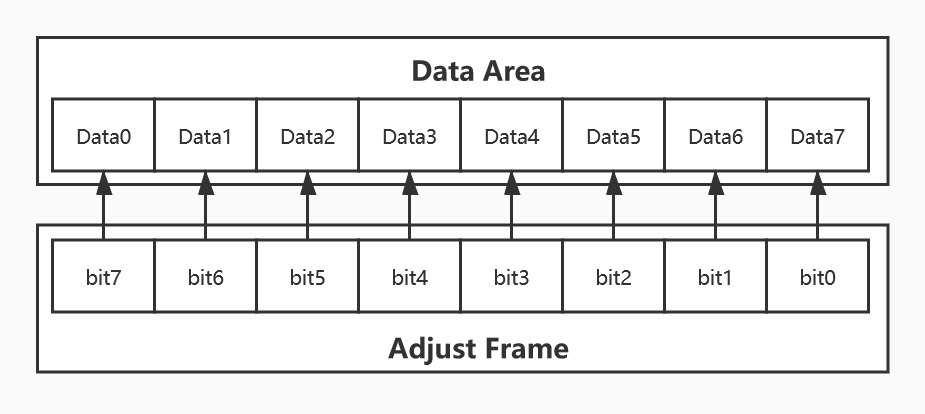
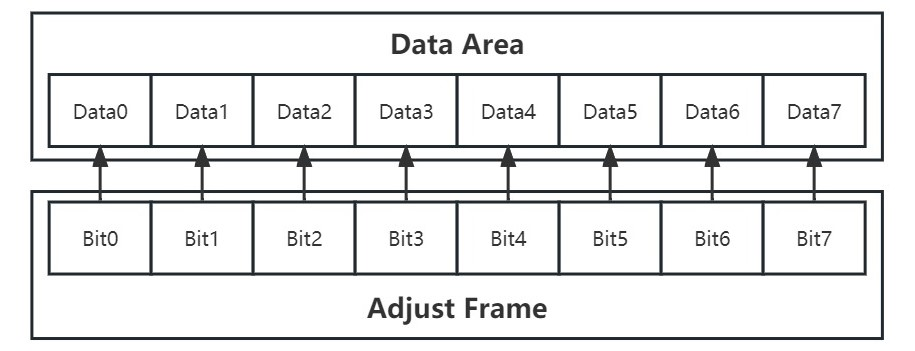
Update the medium-capacity transmission protocol and small-capacity transmission protocol to 2.0 to fix bugs.

Changed region(s): [[0.0306, 0.0285, 0.9792, 0.9687], [0.3978, 0.6553, 0.459, 0.7123]]

diff --git a/mdtp/src/decrypt.c b/mdtp/src/decrypt.c
@@ -2,8 +2,8 @@
     \file     decrypt.c
     \brief    Medium capacity transport protocol unpacking function Source File.
     \author   Lao·Zhu
-    \version  V1.0.3
-    \date     3. December 2021
+    \version  V2.0.0
+    \date     15. October 2023
 ******************************************************************************/
 
 #include "decrypt.h"
@@ -16,11 +16,11 @@
           1 receive status trying to receive a complete packet.   \n
           2 end status processing the received data
 */
-volatile static unsigned char mdtp_receive_status = 0;
+static unsigned char mdtp_receive_status = 0;
 /*!
     \brief  medium capacity transport protocol receive character counter
 */
-volatile static unsigned char mdtp_receive_number_counter = 0;
+static unsigned char mdtp_receive_number_counter = 0;
 /*!
     \brief  medium capacity transport protocol receive buffer array
 */
@@ -29,14 +29,14 @@ static unsigned char mdtp_receive_data_buffer[10] = {0};
 /*!
     \brief        medium capacity data transmission protocol unpacking handler
     \param[in]    data: data received from UART peripheral
-    \retval none
+    \retval       none
 */
 void mdtp_receive_handler(unsigned char data) {
     /* data receiving finite state machine */
     switch (mdtp_receive_status) {
         case 0:
             /* judge whether the packet header is received */
-            if (data == 0xA5) {
+            if (data == 0xAA) {
                 /* enter the receive state */
                 mdtp_receive_status = 1;
 
@@ -48,7 +48,7 @@ void mdtp_receive_handler(unsigned char data) {
 
         case 1:
             /* judge whether the end of the packet is mistakenly recognized as the header */
-            if (data == 0xA5 && mdtp_receive_number_counter != 0) {
+            if (data == 0xAA && mdtp_receive_number_counter != 0) {
                 /* an unexpected data had been received */
                 /* reset to receive start of package state */
                 mdtp_receive_status = 0;
@@ -56,7 +56,7 @@ void mdtp_receive_handler(unsigned char data) {
                 /* clear receive array counter and buffer */
                 mdtp_receive_number_counter = 0;
                 memset(mdtp_receive_data_buffer, 0x00, sizeof(mdtp_receive_data_buffer));
-            } else if (data != 0xA5) {
+            } else if (data != 0xAA) {
                 /* judge whether the reception is completed or the error data is received */
                 if (mdtp_receive_number_counter != 10) {
                     /* receive the data into the array in turn */
@@ -69,23 +69,26 @@ void mdtp_receive_handler(unsigned char data) {
             break;
 
         case 2:
-            if (data == 0xA5) {
+            if (data == 0xAA) {
+                /* reset to receive start of package state */
                 mdtp_receive_status = 0;
 
                 /* verify whether the pid byte is correct*/
                 if ((mdtp_receive_data_buffer[0] >> 4) == (~mdtp_receive_data_buffer[0] & 0x0f)) {
-                    unsigned char tmp_rcv_buffer[8] = {0}, counter = 0;
-                    /* judge whether the adjust frame is 0xA5 */
-                    if (mdtp_receive_data_buffer[1] == 0x81 && mdtp_receive_data_buffer[9] == 0x81) {
-                        mdtp_receive_data_buffer[9] = 0xA5;
-                        mdtp_receive_data_buffer[1] = 0x00;
-                    } else {
-                        /* traverse the data byte to be adjusted */
-                        for (; counter < 8; ++counter)
-                            if (((mdtp_receive_data_buffer[9] >> counter) & 0x01) == 0x01)
-                                tmp_rcv_buffer[counter] = 0xA5;
-                            else
-                                tmp_rcv_buffer[counter] = mdtp_receive_data_buffer[counter + 1];
+                    static unsigned char tmp_rcv_buffer[8] = {0}, adj_counter = 0;
+                    /* judge whether the adjust frame is 0xAA */
+                    if (mdtp_receive_data_buffer[8] == 0xA5 && mdtp_receive_data_buffer[9] == 0x80)
+                        /* set adjust frame to with 0xAA */
+                        mdtp_receive_data_buffer[9] = 0xAA;
+                    /* traverse the data byte to be adjusted */
+                    for (adj_counter = 0; adj_counter < 8; ++adj_counter) {
+                        /* judge whether the adjustment bit is 1 */
+                        if (((mdtp_receive_data_buffer[9] >> adj_counter) & 0x01) == 0x01)
+                            /* fill the data byte with 0xAA */
+                            tmp_rcv_buffer[adj_counter] = 0xAA;
+                        else
+                            /* copy data directly to the receiving array */
+                            tmp_rcv_buffer[adj_counter] = mdtp_receive_data_buffer[adj_counter + 1];
                     }
                     /* call user callback function to complete the next step */
                     mdtp_callback_handler(mdtp_receive_data_buffer[0] >> 4, tmp_rcv_buffer);

diff --git a/sdtp/src/decrypt.c b/sdtp/src/decrypt.c
@@ -1,38 +1,41 @@
-//
-// Created by Lao·Zhu on 2021/9/4.
-//
+/*****************************************************************************
+    \file     decrypt.c
+    \brief    Small capacity transport protocol unpacking function Source File.
+    \author   Lao·Zhu
+    \version  V2.0.0
+    \date     15. October 2023
+******************************************************************************/
 
 #include "decrypt.h"
 #include "ioctrl.h"
 
-unsigned char receive_buffer[3];
+static unsigned char receive_buffer[3];
 
 /*!
     \brief        small capacity data transmission protocol unpacking handler
     \param[in]    data: data received from general receive function
-    \param[out]   none
     \retval       none
 */
 void sdtp_receive_handler(unsigned char data) {
     /* data receiving finite state machine */
-    switch (((data & 0xc0) >> 6)) {
+    switch (((data & 0xC0) >> 6)) {
         case 0x00:
             /* separate the first two bits of the byte to obtain valid data */
-            receive_buffer[0] = ((data & 0x3f) << 2);
+            receive_buffer[0] = ((data & 0x3F) << 2);
             break;
         case 0x01:
             /* separate the first two bits of the byte to obtain valid data */
             receive_buffer[0] |= ((data & 0x30) >> 4);
-            receive_buffer[1] = ((data & 0x0f) << 4);
+            receive_buffer[1] = ((data & 0x0F) << 4);
             break;
         case 0x02:
             /* separate the first two bits of the byte to obtain valid data */
-            receive_buffer[1] |= ((data & 0x3c) >> 2);
+            receive_buffer[1] |= ((data & 0x3C) >> 2);
             receive_buffer[2] = ((data & 0x03) << 6);
             break;
         case 0x04:
             /* separate the first two bits of the byte to obtain valid data */
-            receive_buffer[2] |= (data & 0x3f);
+            receive_buffer[2] |= (data & 0x3F);
             /* call user callback function to complete the next step */
             sdtp_callback_handler(receive_buffer);
             break;

diff --git a/mdtp/src/encrypt.c b/mdtp/src/encrypt.c
@@ -2,8 +2,8 @@
     \file     encrypt.c
     \brief    Medium capacity transport protocol packing function source file.
     \author   Lao·Zhu
-    \version  V1.0.3
-    \date     3. December 2021
+    \version  V2.0.0
+    \date     15. October 2023
 ******************************************************************************/
 
 #include "encrypt.h"
@@ -11,27 +11,29 @@
 
 /*!
     \brief      medium capacity data transmission protocol packing function
-    \param[in]    pid: medium capacity transport protocol package id
-    \param[in]    buffer: transmit data array of size 8 bytes
-    \retval none
+    \param[in]  pid: medium capacity transport protocol package id
+    \param[in]  buffer: transmit data array of size 8 bytes
+    \retval     none
 */
 void mdtp_data_transmit(unsigned char pid, const unsigned char *buffer) {
-    unsigned char temp_buf[12] = {0xA5, 0x00, 0x00, 0x00, 0x00, 0x00,
-                                  0x00, 0x00, 0x00, 0x00, 0x00, 0xA5};
+    unsigned char temp_buf[12] = {0xAA, 0x00, 0x00, 0x00, 0x00, 0x00,
+                                  0x00, 0x00, 0x00, 0x00, 0x00, 0xAA};
     unsigned char mdtp_pack_counter;
 
     /* traverse the array to determine whether there are bytes to be adjusted */
     for (mdtp_pack_counter = 0; mdtp_pack_counter < 8; mdtp_pack_counter++) {
-        if (buffer[mdtp_pack_counter] == 0xA5) {
+        if (buffer[mdtp_pack_counter] == 0xAA) {
             temp_buf[2 + mdtp_pack_counter] = 0x00;
             temp_buf[10] = (temp_buf[10] | (1 << mdtp_pack_counter));
         } else
             temp_buf[2 + mdtp_pack_counter] = buffer[mdtp_pack_counter];
     }
 
-    /* judge whether the adjust frame is 0xA5 */
-    if (temp_buf[10] == 0xA5)
-        temp_buf[10] = temp_buf[2] = 0x81;
+    /* judge whether the adjust frame is 0xAA */
+    if (temp_buf[10] == 0xAA) {
+        temp_buf[10] = 0x80;
+        temp_buf[9] = 0xA5;
+    }
 
     /* load self checking packet id byte */
     temp_buf[1] = pid << 4 | ((~pid) & 0x0f);

diff --git a/sdtp/src/encrypt.c b/sdtp/src/encrypt.c
@@ -1,6 +1,10 @@
-//
-// Created by Lao·Zhu on 2021/9/4.
-//
+/*****************************************************************************
+    \file     encrypt.c
+    \brief    Medium capacity transport protocol packing function source file.
+    \author   Lao·Zhu
+    \version  V2.0.0
+    \date     15. October 2023
+******************************************************************************/
 
 #include "encrypt.h"
 #include "ioctrl.h"
@@ -8,7 +12,6 @@
 /*!
     \brief        small capacity data transmission protocol packing function
     \param[in]    data: received data array of size 3 bytes
-    \param[out]   none
     \retval       none
 */
 void sdtp_data_transmit(const unsigned char *data) {
@@ -16,8 +19,8 @@ void sdtp_data_transmit(const unsigned char *data) {
     /* add packet header after splitting data bytes */
     transmit_buffer[0] = (data[0] >> 2);
     transmit_buffer[1] = (0x01 << 6) | ((data[0] & 0x03) << 4) | (data[1] >> 4);
-    transmit_buffer[2] = (0x01 << 7) | ((data[1] & 0x0f) << 2) | (data[2] >> 6);
-    transmit_buffer[3] = (0x03 << 6) | (data[2] & 0x3f);
+    transmit_buffer[2] = (0x01 << 7) | ((data[1] & 0x0F) << 2) | (data[2] >> 6);
+    transmit_buffer[3] = (0x03 << 6) | (data[2] & 0x3F);
     /* traverse the buffer array and send all bytes through general sendbyte function */
     for (transmit_counter = 0; transmit_counter < 4; transmit_counter++)
         /* transmit single byte through general sendbyte function */

diff --git a/sdtp/src/ioctrl.c b/sdtp/src/ioctrl.c
@@ -1,6 +1,10 @@
-//
-// Created by Lao·Zhu on 2021/9/4.
-//
+/*****************************************************************************
+    \file     ioctrl.c
+    \brief    Generic single-byte send/receive functions Source File.
+    \author   Lao·Zhu
+    \version  V2.0.0
+    \date     15. October 2023
+******************************************************************************/
 
 #include "ioctrl.h"
 #include "decrypt.h"
@@ -8,7 +12,6 @@
 /*!
     \brief        user callback function for unpacking completion of small capacity transport protocol
     \param[in]    data: received data array of size 3 bytes
-    \param[out]   none
     \retval       none
 */
 void sdtp_callback_handler(unsigned char *data) {
@@ -18,7 +21,6 @@ void sdtp_callback_handler(unsigned char *data) {
 /*!
     \brief        general single byte sending function
     \param[in]    data: data byte to send
-    \param[out]   none
     \retval       none
 */
 void common_sendbyte(unsigned char data) {
@@ -28,7 +30,6 @@ void common_sendbyte(unsigned char data) {
 /*!
     \brief        general single byte receiving function
     \param[in]    data: data byte received
-    \param[out]   none
     \retval       none
 */
 void common_receivebyte(unsigned char data) {

diff --git a/mdtp/src/ioctrl.c b/mdtp/src/ioctrl.c
@@ -2,8 +2,8 @@
     \file     ioctrl.c
     \brief    Generic single-byte send/receive functions Source File.
     \author   Lao·Zhu
-    \version  V1.0.3
-    \date     3. December 2021
+    \version  V2.0.0
+    \date     15. October 2023
 ******************************************************************************/
 
 #include "ioctrl.h"
@@ -16,6 +16,7 @@
     \retval       none
 */
 void mdtp_callback_handler(unsigned char pid, unsigned char *data) {
+
 }
 
 /*!
@@ -24,6 +25,7 @@ void mdtp_callback_handler(unsigned char pid, unsigned char *data) {
     \retval       none
 */
 void common_sendbyte(unsigned char data) {
+
 }
 
 /*!

diff --git a/sdtp/src/decrypt.h b/sdtp/src/decrypt.h
@@ -1,6 +1,10 @@
-//
-// Created by Lao·Zhu on 2021/9/4.
-//
+/*****************************************************************************
+    \file     decrypt.h
+    \brief    Small capacity transport protocol unpacking function Header File.
+    \author   Lao·Zhu
+    \version  V2.0.0
+    \date     15. October 2023
+******************************************************************************/
 
 #ifndef _DECRYPT_H_
 #define _DECRYPT_H_

diff --git a/sdtp/src/encrypt.h b/sdtp/src/encrypt.h
@@ -1,6 +1,10 @@
-//
-// Created by Lao·Zhu on 2021/9/4.
-//
+/*****************************************************************************
+    \file     encrypt.h
+    \brief    Small capacity transport protocol packing function Header File.
+    \author   Lao·Zhu
+    \version  V2.0.0
+    \date     15. October 2023
+******************************************************************************/
 
 #ifndef _ENCRYPT_H_
 #define _ENCRYPT_H_

diff --git a/sdtp/src/ioctrl.h b/sdtp/src/ioctrl.h
@@ -1,6 +1,10 @@
-//
-// Created by Lao·Zhu on 2021/9/4.
-//
+/*****************************************************************************
+    \file     ioctrl.h
+    \brief    Generic single-byte send/receive functions Header File.
+    \author   Lao·Zhu
+    \version  V2.0.0
+    \date     15. October 2023
+******************************************************************************/
 
 #ifndef _IOCTRL_H_
 #define _IOCTRL_H_

diff --git a/mdtp/src/decrypt.h b/mdtp/src/decrypt.h
@@ -2,8 +2,8 @@
     \file     decrypt.h
     \brief    Medium capacity transport protocol unpacking function Header File.
     \author   Lao·Zhu
-    \version  V1.0.3
-    \date     3. December 2021
+    \version  V2.0.0
+    \date     15. October 2023
 ******************************************************************************/
 
 #ifndef _DECRYPT_H_

diff --git a/mdtp/src/encrypt.h b/mdtp/src/encrypt.h
@@ -2,8 +2,8 @@
     \file     encrypt.h
     \brief    Medium capacity transport protocol packing function Header File.
     \author   Lao·Zhu
-    \version  V1.0.3
-    \date     3. December 2021
+    \version  V2.0.0
+    \date     15. October 2023
 ******************************************************************************/
 
 #ifndef _ENCRYPT_H_

diff --git a/mdtp/src/ioctrl.h b/mdtp/src/ioctrl.h
@@ -2,8 +2,8 @@
     \file     ioctrl.h
     \brief    Generic single-byte send/receive functions Header File.
     \author   Lao·Zhu
-    \version  V1.0.3
-    \date     3. December 2021
+    \version  V2.0.0
+    \date     15. October 2023
 ******************************************************************************/
 
 #ifndef _IOCTRL_H_
